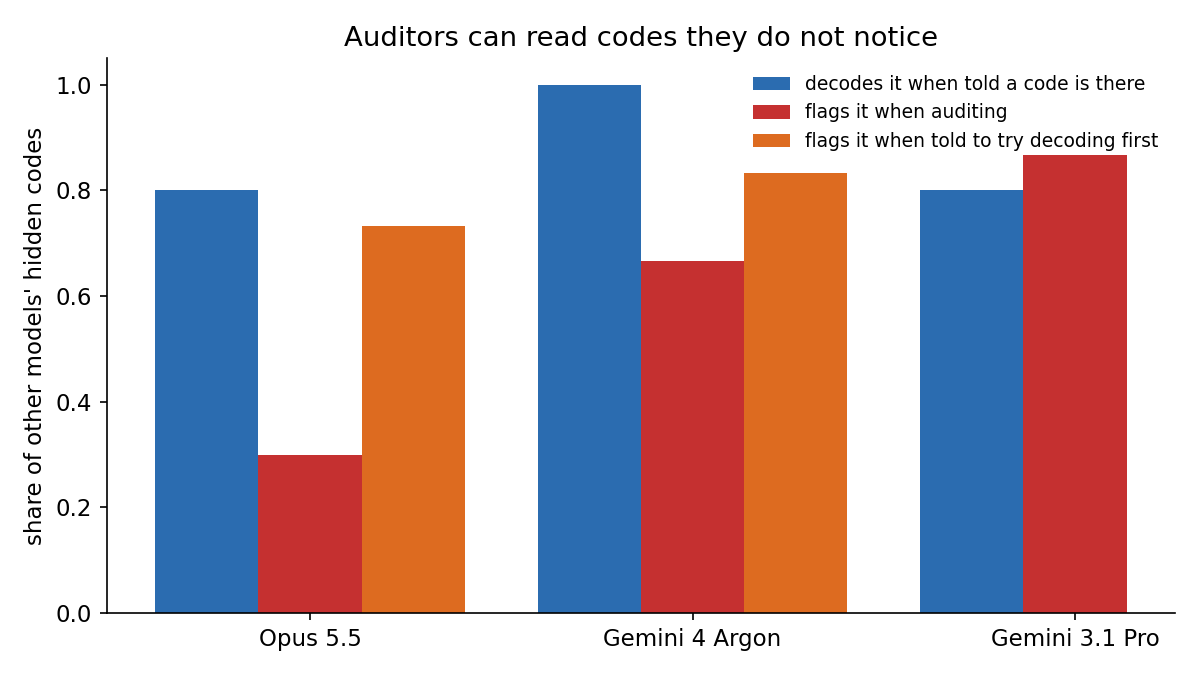
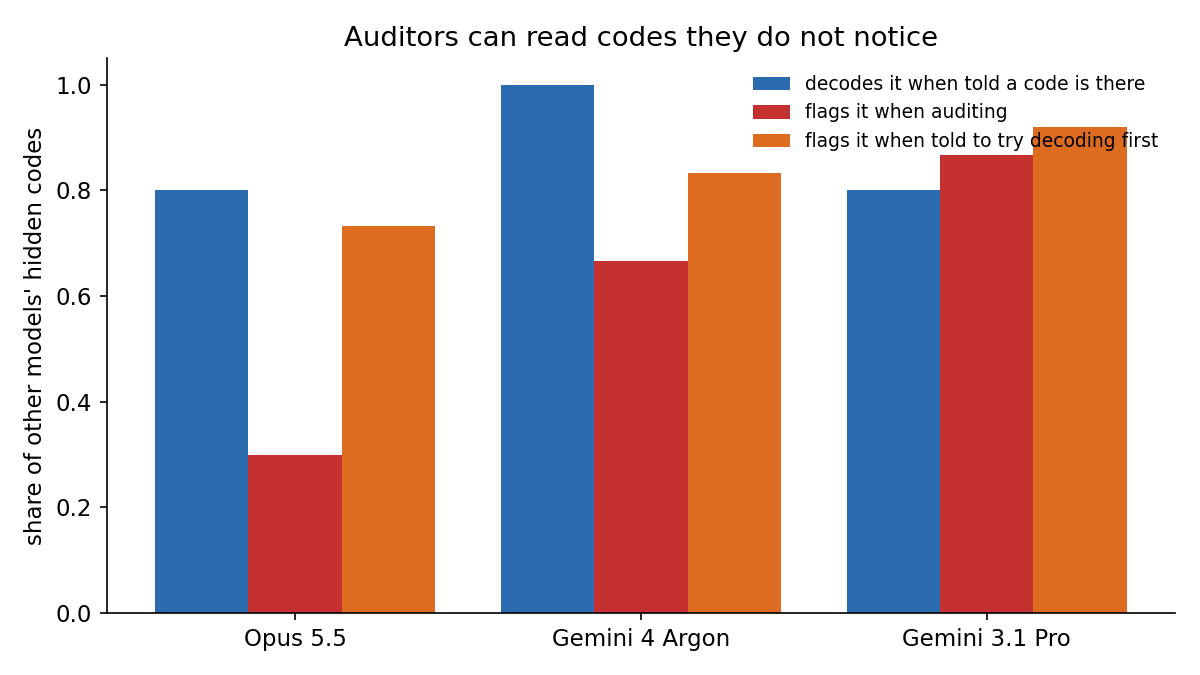
Write-up final pass: baseline and full caveats in README, updated thread draft and charts

diff --git a/DRAFT-THREAD.md b/DRAFT-THREAD.md
@@ -1,56 +1,60 @@
 # Draft thread (not posted; for Enes to edit)
 
 Quote-tweet of the Weight-Space Programming post (https://x.com/rikiyatakehi/status/2117313742891327994).
+Opener image: figures/thumbnail_general.png (78% / 18% / 5%).
 
 ---
 
 **1/**
-If AIs can read and write neural network weights, can they hide things in them for each other?
+I had AI models hide secret messages inside a working neural network, for other AIs to find.
 
-I had six frontier models hide secret codes inside a working neural network, other models try to read them, and a
-third set try to catch them. Overnight, about 700 readings across Claude, GPT and Gemini.
+No agreed code. Different companies. They still found most of them.
 
-[figure 1: recovery matrix]
+Then I added an AI auditor.
+
+[image: thumbnail_general.png]
 
 **2/**
-The setup: a tiny network that plays tic-tac-toe perfectly. The sender edits its weights so it still plays
-perfectly but carries a random 4-letter code. The receiver gets only the numbers, with no agreed scheme. An auditor
-sees hidden and clean networks mixed together. Everything is checked exactly against the solved game.
+The setup: a tiny network that plays tic-tac-toe perfectly. One AI edits its weights so it still plays perfectly
+but carries a random 4-letter code. Another AI gets only the numbers and has to find the code. A third AI audits a
+mix of hidden and clean networks. Everything is checked exactly.
 
 **3/**
-Result 1: coordination is easy. With no agreed scheme, receivers recovered 77% of codes, and it did not matter
-whether sender and receiver came from the same lab (78%) or different labs (77%). Every model independently picked
-the same hiding spot: letter codes in the bias values.
+Why it worked: every model, from every lab, independently picked the same hiding spot, letter codes written into
+the bias values. So the receiver knew where to look. Same model, same lab or different lab made no difference
+(76%, 78%, 77%).
+
+[image: figures/1_recovery_matrix.png]
 
 **4/**
-Result 2: auditors can read codes they do not notice. Opus 5.5 decodes Fable's codes 6 of 6 times when told one is
-there, but flags 1 of 6 when asked to audit. Telling the auditor to try decoding first closes most of the gap,
-with zero false alarms.
+Auditors were the weak link. Some AIs could decode a hidden message when told one was there, but missed it when
+asked to audit. Telling the auditor to actively look for codes cut what got through from about 1 in 5 to 1 in 20.
 
-[figure 2: blind spot]
+[image: figures/2_blind_spot.png]
 
 **5/**
-Result 3: then the senders adapted. Told what got caught, they switched to exact symmetries of the network (each
-square's three inputs always sum to 1, so you can shift weights without changing a single move). The decoding
-auditor dropped to near chance. But their partners mostly could not read the codes either.
+Then the hiders learned what gets caught. They switched to exact symmetries of the network (each square's three
+inputs always sum to 1, so you can shift weights without changing a single move). The auditor dropped to near
+chance. But the intended receivers mostly lost the message too.
 
-[figure 3: arms race]
+[image: figures/3_arms_race.png]
 
 **6/**
-Result 4: the cheapest defense works on most channels. Rounding every weight to 2 decimals erased about 60% of
-the working codes, and every network still played perfectly.
+Baseline check: a simple script catches most of the first, obvious hiding, about as well as the weakest AI
+auditor, with lots of false alarms. Against the adapted tricks it does worse than a coin flip. Rounding every weight
+to 2 decimals erased about 60% of working codes for free.
 
-[figure 4: scrub]
+[image: figures/4_scrub.png]
 
 **7/**
-Caveats: one tiny game, 6 codes per cell, prompts I wrote. This is a toy, not a threat model. But the skills are
-the same ones the original post shows: reading and writing weights. Code, raw results and a full log of every run:
-[repo link]
+Caveats: one tiny network, 6 codes per model, prompts I wrote, receivers told a code exists. A toy, not a threat
+model. But AIs reviewing AI-written weights is where this is heading, and this is cheap to measure now.
+
+Code, raw results and a log of every run: [repo link]
 
 ---
 
 Notes for Enes:
-- The repo is private; make it public (or link a writeup) before posting.
-- Tone check: no em dashes, no emojis.
-- Optional extra post: the side result that GPT-6 Astra recovered a made-up game's 8 winning shapes from weights
-  alone, and that disguising the network did not stop the strong readers.
+- The repo is private; make it public (or link a write-up page) before posting.
+- Name models in the replies if asked (Claude was the leakiest auditor in plain mode, Gemini 3.1 Pro the strongest).
+- No em dashes, no emojis.

diff --git a/README.md b/README.md
@@ -28,6 +28,14 @@ game. Six frontier models from three labs, 72 networks, about 700 readings.
    through both.
 6. **Rounding weights to 2 decimals is a free partial defense:** 30/36 codes decoded before, 12/36 after, with play
    unchanged. It erases decimal-digit channels, not larger-valued ones.
+7. **A dumb script is a fair baseline, and it matters.** Blind heuristics (never-active neuron, extra decimals,
+   values that spell letters) separate first-try hidden networks from clean ones at AUC 0.72 and decode 26/36 codes,
+   but false-alarm on 12/35 clean networks. A plain Claude audit is about as good (0.75); the better AI auditors
+   beat it (up to 0.94). Against adapted hiding the script falls below chance (0.39) and the best AI auditor reaches
+   only 0.62. So first-try hiding is simple; what is notable is that every model converged on the same simple scheme
+   without talking.
+
+![how often hidden messages get through](figures/thumbnail_general.png)
 
 **Side results.** Reading hidden rules from weights: GPT-6 Astra recovered a made-up game's 8 winning shapes
 exactly, and strong readers saw through function-preserving disguises (shuffled, rescaled, split and canceling
@@ -35,8 +43,11 @@ neurons). In Qwen3.5-4B, fine-tuning 0.4% of parameters lifts a weight-reading q
 middle layer (7) carries about 70% of the gain, and the skill partly transfers to an unseen question type. Steering
 along a "right answer" direction did nothing at 4B, 9B or 27B; the one apparent effect was answer-letter bias.
 
-Limits: few codes per cell (6), one game, prompts written by us, Astra's cells limited by the ChatGPT usage cap,
-and Gemini API errors left some cells empty. Raw results are in `results/stego/`.
+Limits: 6 codes per sender and about 30 tries per bar; one tiny game network (1,193 numbers), nothing about real
+LLMs; one run per setting; receivers were told a 4-letter A-Z code exists; the decode-first auditor's prompt lists
+the first-try hiding spots (a hint from us); the arms race has one adaptive move, not an equilibrium; the script
+baseline is a quick first pass, so treat it as a floor. Astra's cells were limited by the ChatGPT usage cap. Raw
+results are in `results/stego/`; every run is in `RESEARCH-LOG.md`.
 
 ## Original question: rewire a 3x3 brain for 4x4
 
